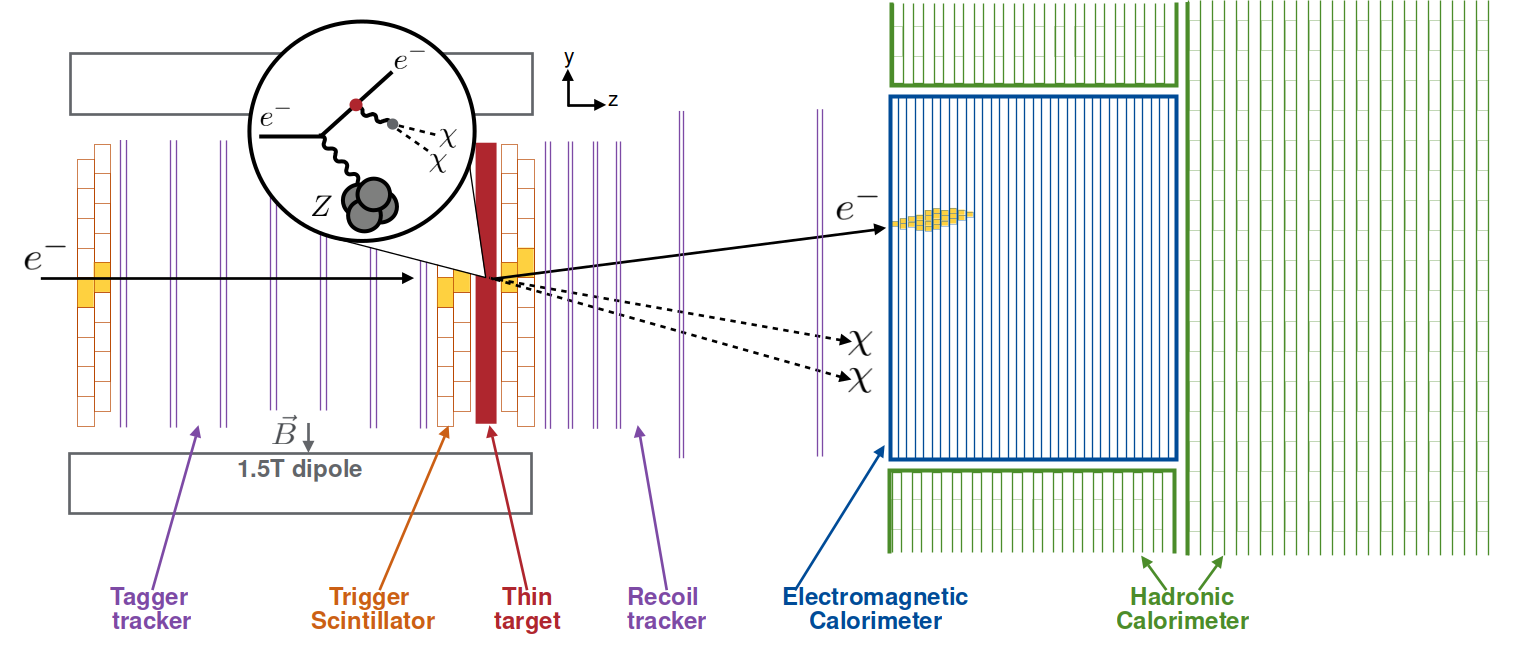
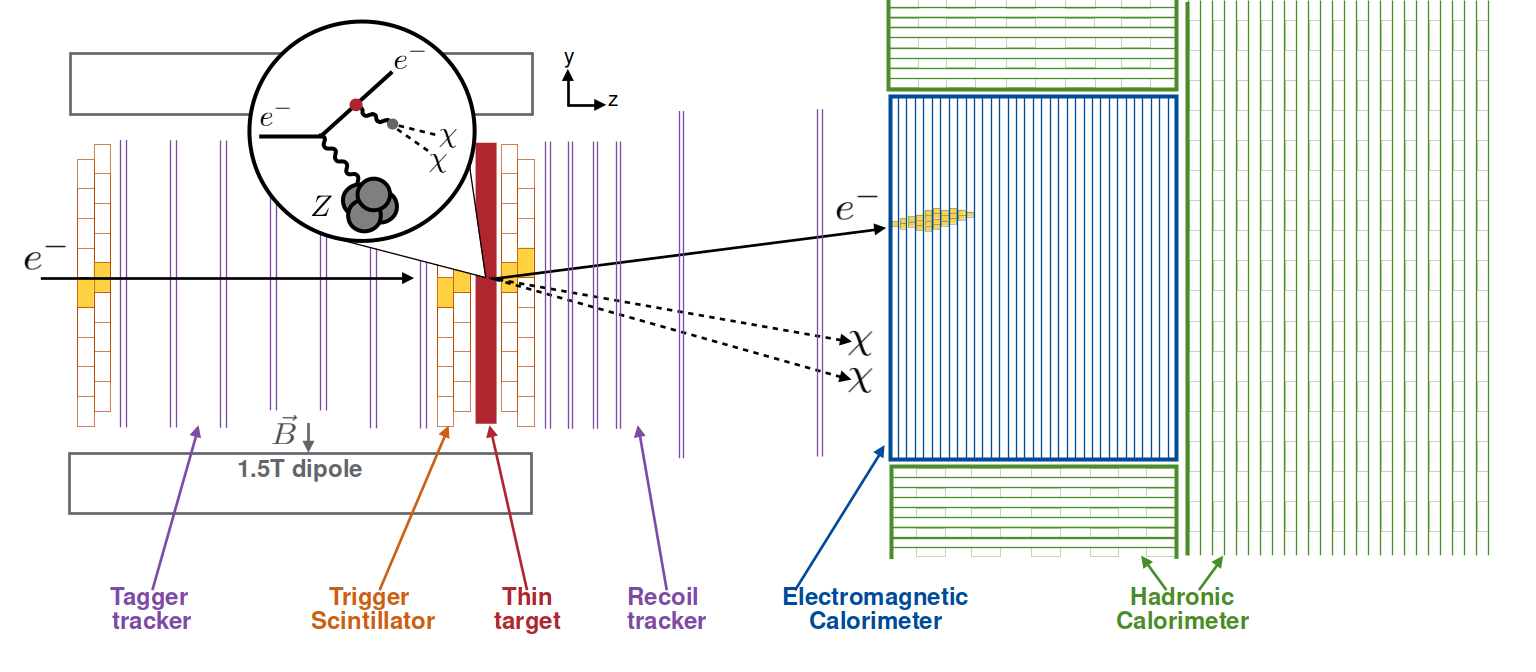
update ldmx diagram to represent side hcal bars correctly

Changed region(s): [[0.5625, 0.6875, 0.7812, 0.8438], [0.5625, 0.0, 0.7812, 0.1562]]

diff --git a/chapters/ldmx/experiment.tex b/chapters/ldmx/experiment.tex
@@ -162,7 +162,6 @@ as downstream analysis separating \ac{sm} background processes from potential \a
 \begin{figure}
 	\centering
 	\includegraphics[width=0.9\textwidth]{figures/ldmx/experiment/detector.png}
-	\todo[replace]{Replace with updated version where the bars in the side hcal are facing the correct way (Ruth sent a copy to Jessica via email).}
 	\caption{
 		Diagram of LDMX detector apparatus with a representation of a signal event where
 		a dark brem occurs within the target. Diagram is not to scale. Credit to Christian Herwig
